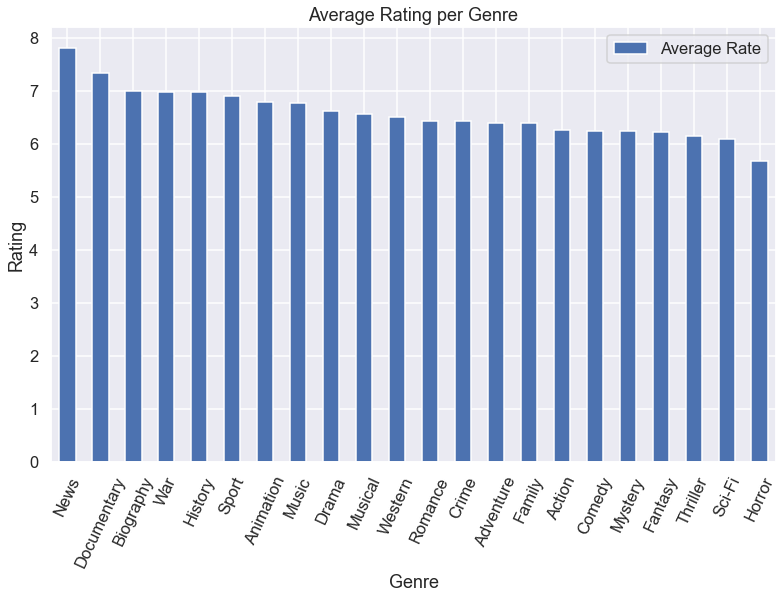
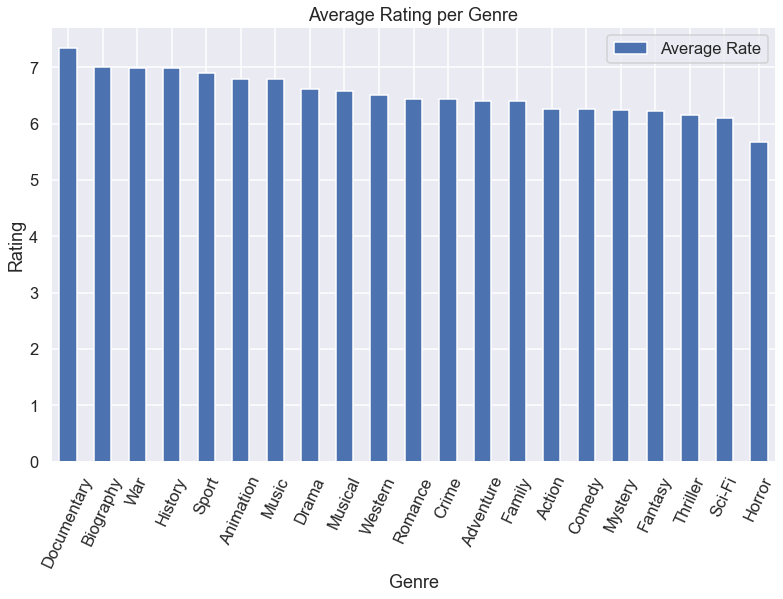
Adding final README, second time

diff --git a/README.md b/README.md
@@ -1813,7 +1813,7 @@ genres_rating['genres'] = genres_rating['genres'].apply(split)
 genres_rating
 ```
 
-    <ipython-input-28-72c3307714a6>:11: SettingWithCopyWarning: 
+    <ipython-input-13-fa23bb187e14>:13: SettingWithCopyWarning: 
     A value is trying to be set on a copy of a slice from a DataFrame.
     Try using .loc[row_indexer,col_indexer] = value instead
     
@@ -2348,10 +2348,6 @@ genre_rate
     </tr>
   </thead>
   <tbody>
-    <tr>
-      <th>News</th>
-      <td>7.820000</td>
-    </tr>
     <tr>
       <th>Documentary</th>
       <td>7.348108</td>
